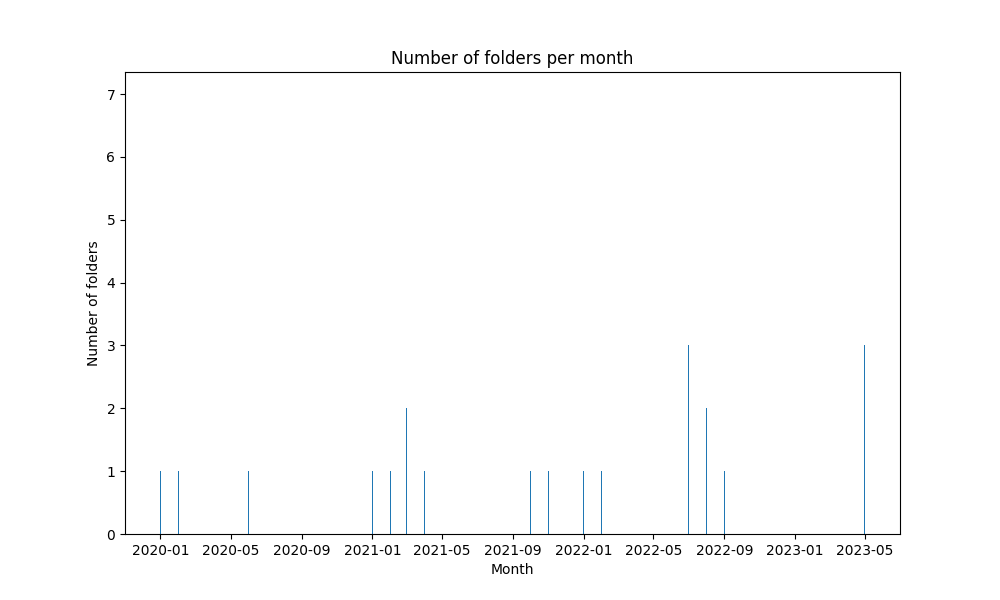
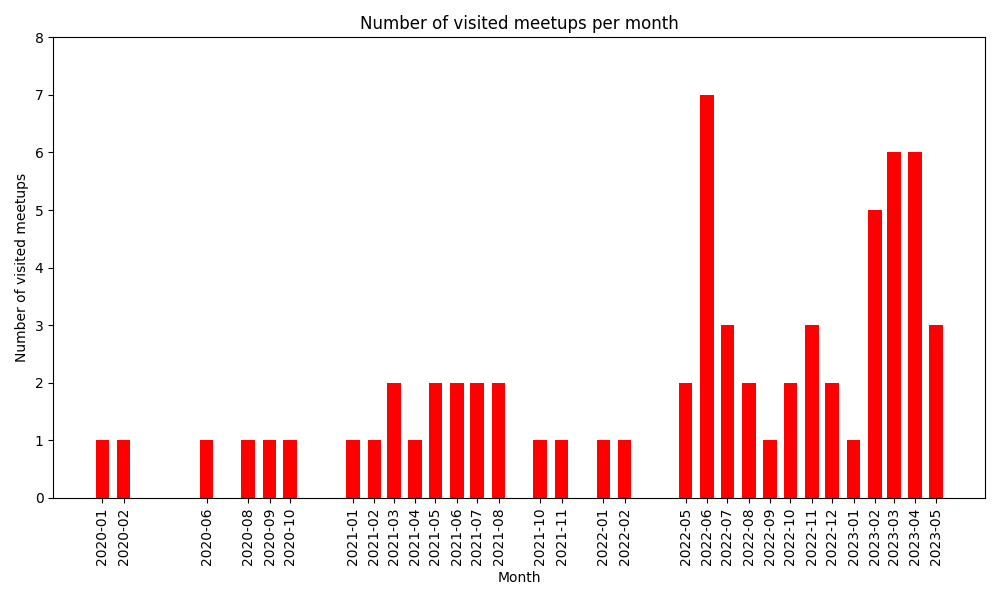
meetupActivityGenerator: finished idea: 4 min later xD

diff --git a/meetupActivityGenerator/meetupActivityGenerator.py b/meetupActivityGenerator/meetupActivityGenerator.py
@@ -22,19 +22,31 @@ def parse_dates_from_folder_names(folder_path):
 def count_dates(date_list):
     return collections.Counter(date_list)
 
-
+# ok. already good, but make  the description on the horizontal scale a bit better. each month should have a tick. and a rotated text for "021-05", "021-06" and so on.
+# also limit the amount of items for the vertical axis to the maxmium height +1. Not soo much free whitespace.
+# at last: make the bars a bit wider. and color them red. red rectangles.
 def plot_date_counts(date_counts):
     # sort by date
     sorted_counts = {k: v for k, v in sorted(date_counts.items())}
 
     dates = [datetime.datetime.strptime(date, '%Y%m') for date in sorted_counts.keys()]
-    counts = sorted_counts.values()
+    counts = list(sorted_counts.values())
 
     plt.figure(figsize=(10, 6))
-    plt.bar(dates, counts)
+
+    # Create wider, red bars
+    plt.bar(dates, counts, color='red', width=20)
+
+    # Set y-axis limit
+    plt.ylim(0, max(counts) + 1)
+
+    # Set x-axis labels rotated
+    plt.xticks(dates, [date.strftime('%Y-%m') for date in dates], rotation='vertical')
+
     plt.xlabel('Month')
-    plt.ylabel('Number of folders')
-    plt.title('Number of folders per month')
+    plt.ylabel('Number of visited meetups')
+    plt.title('Number of visited meetups per month')
+    plt.tight_layout()  # ensures that the x-labels are fully visible
     plt.savefig('output.png')
 
 
@@ -45,4 +57,4 @@ def main(folder_path):
 
 
 if __name__ == "__main__":
-    main("/home/mpetrick/repos/DevNotes/BeenThereSeenThat/")  # replace with your directory
+    main("/home/mpetrick/repos/DevNotes/BeenThereSeenThat/")
